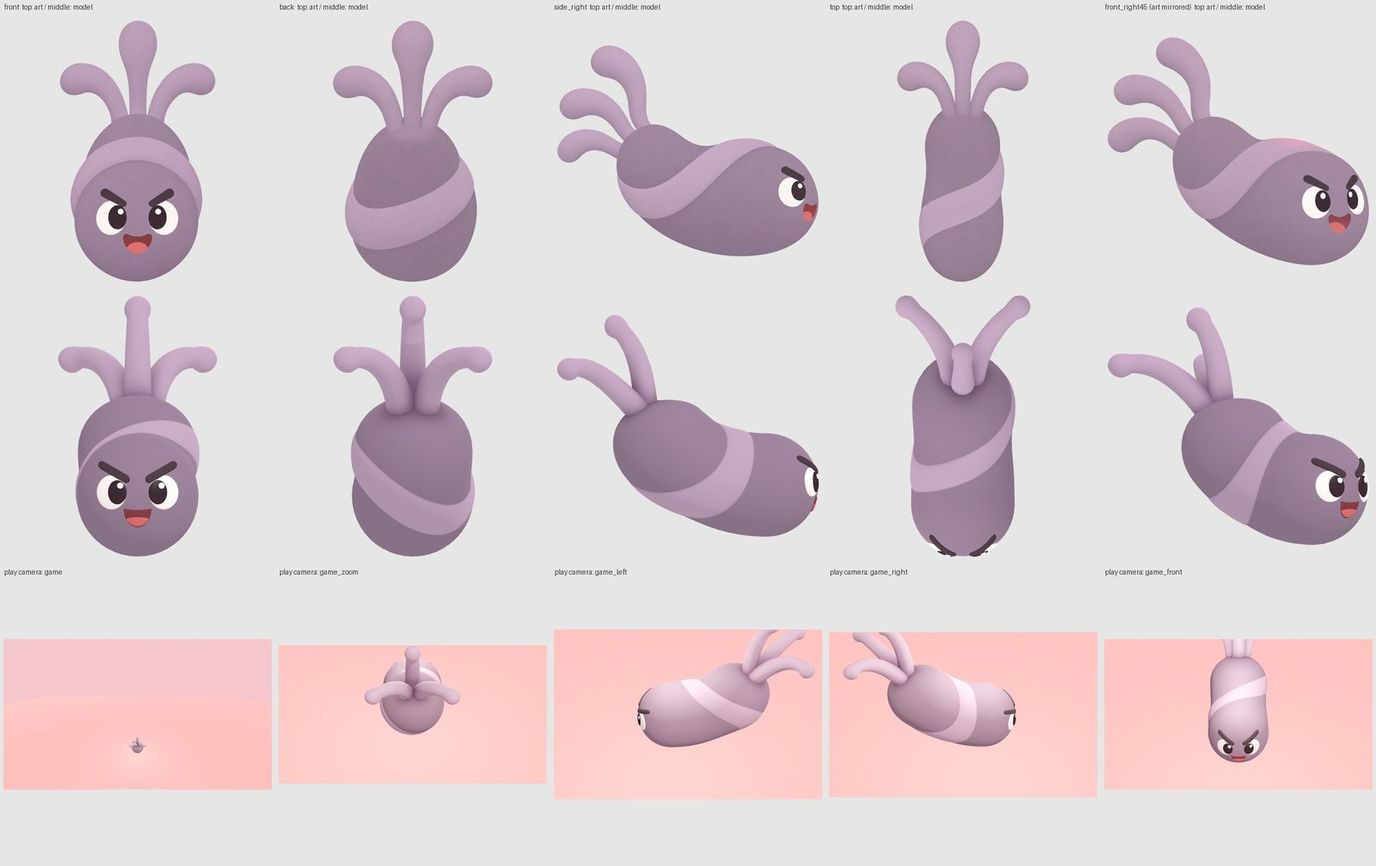
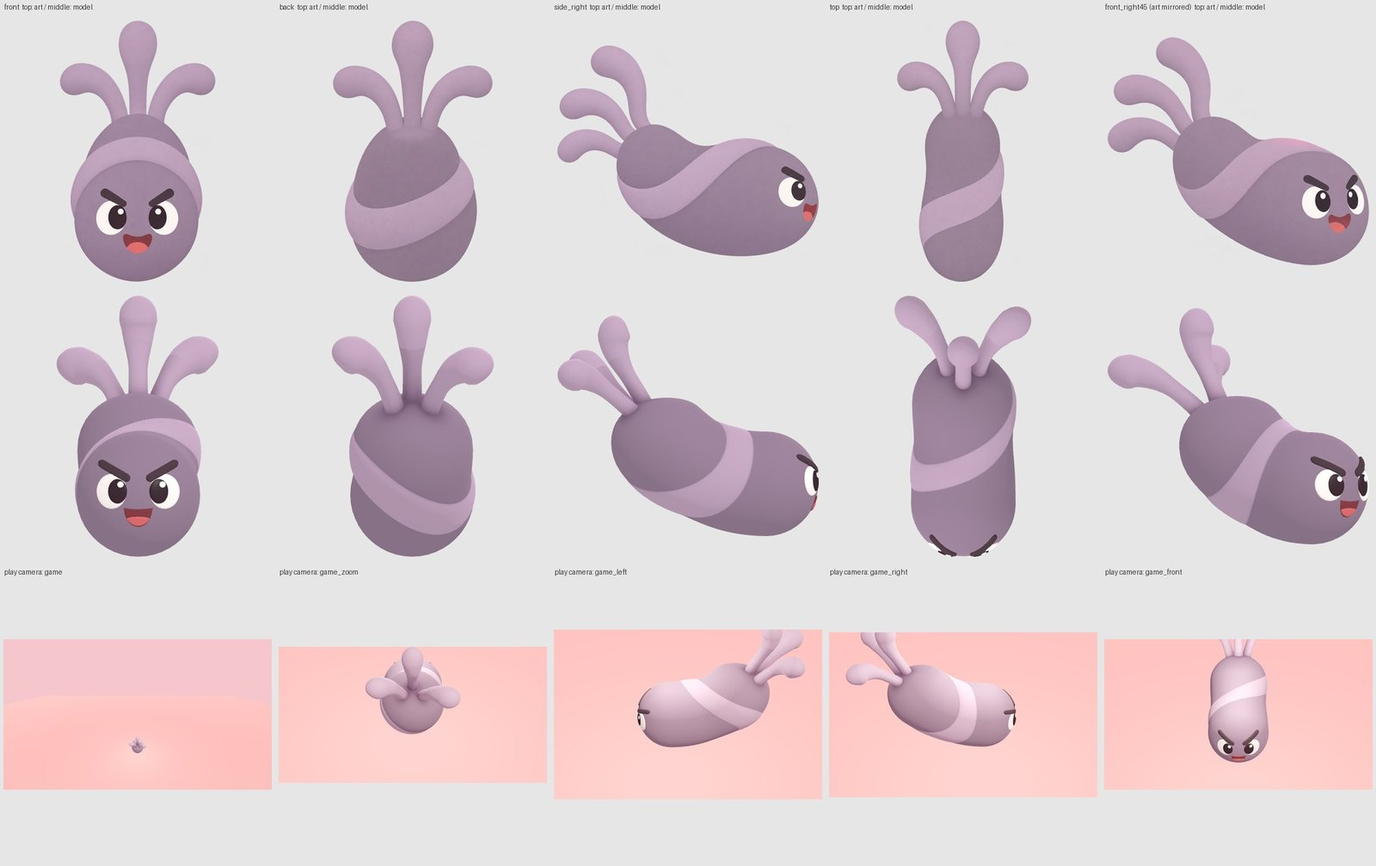
本線に 出す 前の 点検の 直し：カードの 絵が 切れるのを 直す、テストと 記録を 足す
- カードの 中で 絵の 入れものが たてに のびると、絵まで のびて 中身が 大きく なり、よこが わくで 切れた
  （ブラウザ版の ずかんで ピロリきんの しょく手と 顔）。絵は いつも はかった 大きさの まま まん中に 置く
- カードを よこ 880 → 940 に 広げ、絵の わくを 260×300 → 320×400 に（文の 列の 幅は 同じ）
- テスト：本物の カードの 中で 絵の 大きさと はみ出しを はかる、うごかない なかまの 足もとの かげと いき、
  なかまと かべの あいだ（1.6 m いじょう）
- うごかない なかまは 場面が 知って いる 船を 使う（毎フレーム グループを さがさない）
- 見くらべの 絵を いまの モデルと カードで 撮りなおし、ピロリきんの 記録に 4 回目の べん毛の 章
- ダッシュボード・進行の 記録・CLAUDE.md・README を 更新（のこった こと、つぎに 直す ことも）

Claude-Session: https://claude.ai/code/session_014WqpUbns6LUX1FTSmqChzj

diff --git a/blender/pylori.py b/blender/pylori.py
@@ -10,8 +10,8 @@
   頭の 中心より うしろを 円弧に そって 上へ 曲げた もの（断面も いっしょに 回るので、うしろは まるい ドームの まま 上がる）。
   絵は 頭が 下がった すがただが、頭は 水平に 作る（取り込みの 決め）。曲げで うしろの ドームが 頭の 上に 見える。
 ・らせんの 帯：ななめに 1 周 する とじた 輪 1 本（明るい 色、ほぼ 平らで ふちは 丸い）。2 回目で 1 周半の らせんから 変えた（記録 11 章）。
-・べん毛 3 本（まん中 1 本は 上へ 立って 先が うしろへ、左右 2 本は うしろ上へ 出て 先が 外と 下へ そる。
-  根もとが 太く 先へ 細く なる 曲がった しょく手、先は くきに なじんだ やわらかい ふくらみ）。
+・べん毛 3 本（まん中 1 本は 上へ 立って うしろへ そり、先は 前へ まるく もどる。左右 2 本は うしろ上へ 出て 外へ ひろがる。
+  根もとが ほそく、先へ 向かって 太く なって まるく とじる こん棒の 形の しょく手。4 回目で 絵の 形に 合わせた（記録 13 章）。
   別の 部品 Flagella（原点は 根もとの まん中）。
   いまの ゲームは 動かして いない（ゆらす ときは この ノードを 回す）。
 ・顔（白目・黒目・光・まゆ・あいた 口と 舌）は 頭の 面に はった うすい ふくらみ。正面の 絵の 位置で 置く。

diff --git a/docs/dashboard.md b/docs/dashboard.md
@@ -7,7 +7,7 @@
 **ブラウザで 遊べる 版**：https://hassy0511.github.io/inside-body-seek/play/ （いまの main の ゲーム。ページの 先頭の ボタンから 開ける）
 
 ゲームの仕組み・文章・テスト・音は Claude が進め、**絵と 3D モデルのデザインは Codex に発注する**（`docs/art_orders/README.md`）。
-いまの見た目は、作りなおした もの（ミクロごう・むしばきん・口・食道・胃）の ほかは 仮（Blender スクリプトで自動生成）。納品があれば同じ名前のファイルを置きかえるだけで本番に差しかわる（`docs/art_orders/取り込み手順.md`）。
+いまの見た目は、作りなおした もの（ミクロごう・むしばきん・ピロリきん・い（胃）の かべの さいぼう・口・食道・胃）の ほかは 仮（Blender スクリプトで自動生成）。納品があれば同じ名前のファイルを置きかえるだけで本番に差しかわる（`docs/art_orders/取り込み手順.md`）。
 本線のブランチは `main`。Codex の依頼文も `main` を見る。
 
 ---
@@ -20,7 +20,7 @@
 | 仕組み | カルテの 流れ（そうだん → よそう → 体に 入る → 入口から じゅんばんの 場面（とおりみち・みちの ちず）→ 体から 出る → カルテ）、ミッション・カード（ゲームを 止めない。場面の あとに まとめて 見る）・クイズ・ほし・セーブ・つづきから・タッチ操作 | 1〜3 話まで 済（自動テストで カルテ 3 本と 場所 10 こが 通る）。4〜10 話は これから |
 | 場所（ステージ） | 口・食道・胃・小腸・血管・心臓右・肺・心臓左・脳・鼻 | 口・食道・胃を Codex の 絵から 作りなおした（形・光・面の 画像）。食道は「なみに のる」遊びに 変えた。ほかの 7 つは 仮の まま（つぎは 小腸と 血管）。ひふ（皮膚）は 4 話で 足す |
 | 音 | 効果音（numpy 生成）、音楽（楽譜から 作った ループ 10 曲と 短い 曲 4 つ。`tools/music/`、`docs/audio.md`） | 音楽は 作りなおした（持ち主が「おとを きく」で 聞いて 判断する 待ち）。効果音は 仮 |
-| 絵・モデル | Codex に発注 → 納品 → Claude が 3D 化・組み込み | 第2弾は 確認ずみ（顔と 全身の 絵は 組み込み済み）。第3弾の 発注書が できた。3D 化は これから |
+| 絵・モデル | Codex に発注 → 納品 → Claude が 3D 化・組み込み | 第2弾は 確認ずみ（顔と 全身の 絵は 組み込み済み）。第2弾の 3D 化は 12 体の うち 4 体（ミクロごう・むしばきん・ピロリきん・い（胃）の かべの さいぼう）が 済み。第3弾の 発注書が できた。3D 化は これから |
 | 配布 | エクスポート（PC／Web／スマホ） | Web 版は 出した（ブラウザで 遊べる。main に push する たびに 作りなおす）。PC・スマホの アプリは 未 |
 
 ## 2. いま やること
@@ -29,6 +29,7 @@
 |---------|------|------|
 | ブラウザで 1 話を 遊んで、気づいた ことを 伝える（方向転換は ひだり・みぎで 向きが 変わる 形に した。体に 入る・出る 画面を 足した） | ユーザー | いま |
 | ブラウザで 2 話を 遊んで、作りなおした しょくどう（なみに のる。かたまりに ぶつかると なみから おちる）と い（胃）、ものしりカードの 出かた（場面の とちゅうは 左上の 小さい ふだだけ。場面の あとに「みつけた ものしりカード」）を 見る。3 話では しょくどうに かたまりが 無い ことも 見る | ユーザー | いま |
+| ブラウザで 2 話の い（胃）を 遊んで、絵から 作りなおした ピロリきん（ななめの 帯 1 本、先の まるい しょく手 3 本）と かべの さいぼう（ゆかに 立って 船の ほうを むく。おうえんすると 口が ひらく。船は つきぬけない）、ずかんの 2 枚の カード（顔を こちらに むけた まま ゆれる）を 見る | ユーザー | いま |
 | 通り道（くち・しょくどうの とおりみちと みちの ちず）が 学びに なって いるか 見る。4〜10 話の みちは 決まった（2026-11-25：入口は 口だけで なくて よい。7〜9 話は うでの ちゅうしゃから 入り、しんぞうと はいを 本当の 順で 通る。`docs/story.md` 5 章の 下の 表） | ユーザー | いま |
 | Codex に 小腸と 血管の 絵を 頼む（7 章の 先頭の 文を 貼る。順 3。食道と 胃の 仕上がりを 見て から） | ユーザー | いま |
 | 食道と 胃の 絵の 取り込みで 決めて ほしい 点（食道 6・胃 6）に 答える（`docs/art_orders/W3_01_食道_取り込みの結果.md`・`W3_01_胃_取り込みの結果.md` の 7 章。おすすめの ままなら「おすすめで」）。任意の 修正依頼は 各 6 章 | ユーザー | いつでも |
@@ -36,10 +37,11 @@
 | A と B を くらべて、これからの 作りかたの 分担を 決める（ページの 先頭の「A と B を くらべる」。遊ぶ・同じ 画面を ならべて 見る・納品チェックを 見くらべる） | ユーザー | いま |
 | ブラウザで 遊んで、気づいた ことを Claude に 伝える（ページの 先頭の「あそんで たしかめる」） | ユーザー | いま |
 | 第3弾を Codex に出す（5 本。7 章の 文を 貼るだけ）。出す順は 患者さんたち → UI → カードの挿絵 Part A → アイテム → カルテの てきと なかま。別々の ブランチなので 同じ日に 並べて 出してよい。1 本を 2〜4 回に 分けて 描くので、納品の 確認が 済んだら 同じ 文を もう一度 貼る | ユーザー | いま |
-| 第2弾の 確認結果を読み、決めてほしい点（15 個。全部に おすすめ あり）に答える。おすすめの ままで よければ「おすすめで」だけで よい（`docs/art_orders/W1W2_取り込みの結果.md` 5 章） | ユーザー | いま |
+| 第2弾の 確認結果を読み、決めてほしい点（15 個。全部に おすすめ あり）に答える。おすすめの ままで よければ「おすすめで」だけで よい（`docs/art_orders/W1W2_取り込みの結果.md` 5 章。10 ピロリきんの 帯と 13 かべの さいぼうの ねんえきは、作った 形で 決めた） | ユーザー | いま |
 | 第2弾の 修正依頼（3 本。どれも 任意）を Codex に出す。7 章の 下の 3 つ。出さなくても 3D 化は 進む | ユーザー | いつでも |
+| ブラウザ版の い（胃）で 見つかった ことを 直す（かべぎわの カメラ、きゅうけいの あとの 向き、入口の 先の いけ、「のど」の 看板、「きろくを けす」の もどる キー。5 章） | Claude | つぎ |
 | 第3弾の 納品を 1 回ごとに 確かめる（確かめたら ここに 書く） | Claude | 納品待ち |
-| 第2弾の 絵を 3D にして 仮モデルと 差しかえる（12 体。順番は `W1W2_取り込みの結果.md` 7 章） | Claude | これから |
+| 第2弾の 絵を 3D にして 仮モデルと 差しかえる（12 体。済みは pod・mushiba・pylori・wallcell の 4 体、のこり 8 体。順番は `W1W2_取り込みの結果.md` 7 章） | Claude | とちゅう |
 | カルテ 1〜3 話の 見直し（コード・文と 体の 事実・遊びやすさ）と 直し | Claude | これから |
 | 4〜10 話を 入れる（新しい しくみ、ひふの 場所、はいえんの ボス）。新しい カード 10 枚の 文も ここで 書く | Claude | これから |
 
@@ -48,10 +50,10 @@
 | 波 | 発注書 | 出した日 | 納品 | 確認 | 組み込み |
 |----|-------|---------|------|------|---------|
 | W0 | `W0_01_アートバイブル.md` | 済 | 2026-10-21（3 案＋A の派生 2 案） | 済：A-model に決定（2026-10-27） | 基準として使う（`W0_取り込みの結果.md`） |
-| W1 | `W1_01_主人公たち.md` | 済（第2弾） | 2026-11-12（`art/w1-hero` @ `6466ce0`、PNG 39 枚） | 済（2026-11-12）：必須の直しなし。任意の修正 2 件、決めてほしい点あり（`W1W2_取り込みの結果.md`） | 顔と全身の PNG 13 枚は取り込み済み（`5003b74`）。3D 化（pod、pico）は これから |
+| W1 | `W1_01_主人公たち.md` | 済（第2弾） | 2026-11-12（`art/w1-hero` @ `6466ce0`、PNG 39 枚） | 済（2026-11-12）：必須の直しなし。任意の修正 2 件、決めてほしい点あり（`W1W2_取り込みの結果.md`） | 顔と全身の PNG 13 枚は取り込み済み（`5003b74`）。3D 化：pod は 済み（`W1_01_pod_3D化の結果.md`）、pico は これから |
 | W1 | `W1_02_患者さんたち.md`（PNG 44 枚。4 回に分けて依頼） | 第3弾：いま出せる | — | — | — |
-| W2 | `W2_01_てき.md` | 済（第2弾） | 2026-11-12（`art/w2-enemies` @ `5a0a268`、PNG 40 枚） | 済（2026-11-12）：必須の直しなし。任意の修正 2 件、決めてほしい点あり（`W1W2_取り込みの結果.md`） | そのまま使う絵は なし。3D 化（5 体）は これから |
-| W2 | `W2_02_なかま.md` | 済（第2弾） | 2026-11-12（`art/w2-friends` @ `8a91ff9`、PNG 48 枚） | 済（2026-11-12）：必須の直しなし。任意の修正 2 件、決めてほしい点あり（`W1W2_取り込みの結果.md`） | そのまま使う絵は なし。3D 化（6 体）は これから |
+| W2 | `W2_01_てき.md` | 済（第2弾） | 2026-11-12（`art/w2-enemies` @ `5a0a268`、PNG 40 枚） | 済（2026-11-12）：必須の直しなし。任意の修正 2 件、決めてほしい点あり（`W1W2_取り込みの結果.md`） | そのまま使う絵は なし。3D 化：mushiba・pylori は 済み（`W2_01_mushiba_3D化の結果.md`・`W2_01_pylori_3D化の結果.md`）、のこり 3 体は これから |
+| W2 | `W2_02_なかま.md` | 済（第2弾） | 2026-11-12（`art/w2-friends` @ `8a91ff9`、PNG 48 枚） | 済（2026-11-12）：必須の直しなし。任意の修正 2 件、決めてほしい点あり（`W1W2_取り込みの結果.md`） | そのまま使う絵は なし。3D 化：wallcell は 済み（`W2_02_wallcell_3D化の結果.md`）、のこり 5 体は これから |
 | W2 | `W2_03_アイテムと小物.md`（PNG 25 枚。3 回に分けて依頼） | 第3弾：いま出せる | — | — | — |
 | W2 | `W2_04_カルテのてきとなかま.md`（PNG 27 枚。3 回に分けて依頼） | 第3弾：いま出せる | — | — | — |
 | W3 | `W3_01_からだのぶたい.md`（5 回に分けて依頼。順 1 ＝ 口、順 2 ＝ 食道と 胃は 納品ずみ。**順 3 ＝ 小腸と 血管**を 次に 出す） | 順 1・2：済。順 3：いま出せる | 順 1：2026-11-24（`art/w3-stages` @ `2c8a3db`、PNG 8 枚）。順 2：2026-11-25（@ `abf7455`、PNG 14 枚） | 順 1：済（2026-11-24）。順 2：済（2026-11-25）。どちらも 必須の 直しなし。任意の 修正と 決めて ほしい 点（`W3_01_口_取り込みの結果.md`・`W3_01_食道_取り込みの結果.md`・`W3_01_胃_取り込みの結果.md`） | 口・食道・胃：面の 画像 各 2 枚（口は 看板も）を 取り込み、形・色を 雰囲気画に 寄せて 作りなおした |
@@ -61,15 +63,17 @@
 
 ## 4. 3D モデルの状態
 
-3D モデルは すべて仮（`blender/characters.py` / `blender/stages.py` の自動生成）。**GLB の名前と、Godot が探す部品名（`Propeller`、`Window`）は差しかえの約束なので変えない。**
+3D モデルは、絵から 作りなおした もの（下の 表で「本番」）の ほかは 仮（`blender/characters.py` / `blender/stages.py` の自動生成）。**GLB の名前と、Godot が探す部品名（`Propeller`、`Window`）は差しかえの約束なので変えない。**
 
 | 種類 | ID（GLB 名） | 状態 | 発注書 |
 |------|------------|------|-------|
 | 主人公 | pod（＋Window・Propeller。パイロット入り） | 本番（絵から 作りなおした。`W1_01_pod_3D化の結果.md`） | W1-01 |
 | 主人公 | pico | 仮（絵は 届いた。3D 化は これから） | W1-01 |
 | てき | mushiba | 本番（絵から 作りなおした。`W2_01_mushiba_3D化の結果.md`） | W2-01 |
-| てき | pylori、akudama、virus、boss_virus | 仮（絵は 届いた。3D 化は これから） | W2-01 |
-| なかま | rbc、wbc、zendama、wallcell、villus、neuron | 仮（絵は 届いた。3D 化は これから） | W2-02 |
+| てき | pylori | 本番（絵から 作りなおした。`W2_01_pylori_3D化の結果.md`） | W2-01 |
+| てき | akudama、virus、boss_virus | 仮（絵は 届いた。3D 化は これから） | W2-01 |
+| なかま | wallcell（＋MouthHappy。おうえんの あとに 見せる ひらいた 口） | 本番（絵から 作りなおした。`W2_02_wallcell_3D化の結果.md`） | W2-02 |
+| なかま | rbc、wbc、zendama、villus、neuron | 仮（絵は 届いた。3D 化は これから） | W2-02 |
 | アイテム | nutrient_a/b/c、heart_item、food、cholesterol、dust | 仮 | W2-03 |
 | しかけ | ゴール・チェックポイント・べん・おくすりバブル（コードで生成）。しょくどうの なみは モデルの きんにくの わを 動かす。いえきの いけは 納品の 色（光らない 琥珀色）で、ふちは モデルに ある | ゴール・チェックポイント・べん・バブルは 仮 | W2-03 |
 | カルテ 4〜10 話の アイテム | waste、pollen、platelet、wound、clue、medicine、exit | まだ 無い（その 話を 作る ときに 仮モデルを 作る） | W2-03 |
@@ -95,16 +99,30 @@
 ## 5. 残課題
 
 - ステージの表面の画像は、口で しくみを 作った（`godot/assets/textures/stages/` に 同じ 名前で 置くだけ）。食道と 胃も 同じ 作りかたで 作りなおした。ほかの 7 ステージは、Codex の 絵が 届いた 順に 作りなおす。
-- 表情の切りかえ（うれしい・いたい）はまだ使っていない（モデルで目・口を別部品にしておく）。
+- 表情の切りかえ（うれしい・いたい）は、かべの さいぼうの うれしい 口（`MouthHappy`。おうえんすると ひらく）だけ。ほかは まだ使っていない（モデルで目・口を別部品にしておく）。
 - エクスポート：Web 版は 済み（`tools/export_web.sh`）。のこりは PC・Android、Web 版の 仕上げ（スマホの 大きさと タッチでの 確認、話ごとに 直接 開く リンク）。
 - ダッシュボードに、遊ばなくても 見られる 画面の 一覧（スクリーンショット）を 足す。
-- 仮の まま 目に つく もの：開く 前の ゴール（灰色の 輪）、チェックポイントの 旗（灰色）、かべの さいぼう（W2 の 色に した 仮の 形）。いえきの いけは、↑ を 押した まま よこぎると ハートが 2 つ へる（前からの きまり）。しょくどうの「なみに のった きょり」は 場面の 中と クリアの ひとことだけに 出る。「みつけた ものしりカード」の「ぜんどううんどう」だけ 字が 小さい。い（胃）の かべぎわでは カメラが 船に 近づきすぎて 前が 見えにくい（ゴールは かべから はなした。カメラの 直しは どの へやにも ひびくので、見て から 決める）。
+- 仮の まま 目に つく もの：開く 前の ゴール（いまは 光らない うすい 白の 輪。い（胃）の 新しい 光で くすんだ 灰色の かたまりに 見えたので 明るく した。形は 仮の まま）、チェックポイントの 旗（灰色）。いえきの いけは、↑ を 押した まま よこぎると ハートが 2 つ へる（前からの きまり）。しょくどうの「なみに のった きょり」は 場面の 中と クリアの ひとことだけに 出る。「みつけた ものしりカード」の「ぜんどううんどう」だけ 字が 小さい。い（胃）の かべぎわでは カメラが 船に 近づきすぎて 前が 見えにくい（ゴールは かべから はなした。カメラの 直しは どの へやにも ひびくので、見て から 決める）。
+- ブラウザ版で い（胃）を 遊んで 見つかった こと（2026-11-25 の 点検。つぎに 直す）：
+  - かべや 坂の そばで カメラが 船の まどの 中まで 寄り、パイロットの 頭が 画面の 下半分を ふさぐ。行き先の 矢印も 大きく なって 上で 切れる。
+  - 「ちょっと きゅうけい」の あと、船が 赤い かべの ほうを 向いて 出る（まわりが 見えない）。かべに 向かって ↑ を 押しつづけると、もどしが 出る まで 7 秒ほど 画面が 赤 一色。
+  - い（胃）の 入口から まっすぐ 進むと すぐ いえきの いけに 入る。2 ひきの ピロリきんの そばでは ハートが すぐ なくなる（ゲームオーバーは なく、きゅうけいで もどる）。
+  - 2 話で 口を とおる とき、「のど」の 看板を カメラが つきぬけて、板が 画面の 上を かくす。
+  - タイトルの「きろくを けす」の たしかめは、もどる キー（Esc）で とじない。
+  - ピロリきんの カードの 文は「らせんの からだ」だが、絵に 合わせた モデルは 豆の 形に 帯 1 本（本物は らせんの 形）。
+- い（胃）の キャラクター（ピロリきん・かべの さいぼう）で のこった こと：
+  - ピロリきんの 帯は、真横から 見ると ほぼ たてに 体を まく（絵は ななめ）。真横と 真上の 絵が 食いちがい、ゲームの カメラが 見る 真上を とった（`W2_01_pylori_3D化の結果.md` 11.1）。
+  - 船が 3 m より 近いと、小さい かべの さいぼうが 船に かくれて 見えない（おうえんした しゅんかんの うれしい 口は、はなれるか ふりかえると 見える）。
+  - い（胃）の 中では ミクロごうの 船体が、前の まっ白で なく 明るい あたたかい 白、ひれは こい からし色に 見える（自分の 色に 近い）。ミクロごうの ライトの 近く（2.5 m）では 光の 当たる がわが 色の 1.1 倍を 少し こえる。
+  - ほかの 場所（口・しょくどう など）の キャラクターの 光は 測って いない。たいようが 強い ままで、自分の 色の 1.3〜1.45 倍に 明るく 見えて いる らしい。
+- カードの 3D の 絵は 顔の まわりで ゆれる ように した。そのため ひらたい モデル（星の `nutrient_a`、`heart_item`）は ゆれの とちゅうで 一瞬 よこから 見え、はばの 広い モデル（akudama・boss_virus など）は 前より 少し 小さく 見える。
 - くらべもの（`tools/compare/`、`test.yml` の「comparison builds」の 手順、ページの「A と B を くらべる」）は 一時的。分担が 決まったら 消す。
 - 効果音の 本番化（音楽は 楽譜から 作りなおした。持ち主が 聞いて 直したい 曲が あれば `tools/music/tracks/<名前>.py` を 直す）。
 - 口の GLB を つぎに 作りなおす とき：むしばの あな（1 話の げんいん）を は（歯）の メッシュから 分けて べつの 部品（`Cavity_*`）に する。いまは 2・3 話の くちの とおりみちで、`StageDB` の `"pass_clean"` が 実行時に あなの 色を ぬりつぶして いる（ほかの 人の くちに むしばが あるように 見せない）。分けたら `pass_clean` を 消して、とおりみちでは `Cavity_*` を かくす。
 
 ## 6. 記録
 
+- 2026-11-25：い（胃）の キャラクター 2 体を Codex の 絵から 作りなおした。ピロリきんは 豆の 形の 体に ななめの 帯 1 本と、根もとが ほそく 先が まるく 太い しょく手 3 本（絵の こん棒の 形）。かべの さいぼうは 絵の 色（あんず色の 体と うすい 水色の ねんえき）で、ゆかに 立ち、いつも 船の ほうを むき、足もとに かげ。おうえんすると 口が ひらいて はずむ。船は つきぬけず、よこへ すべって 通る。同じ さいぼうを まわる ピロリきんは はなれて まわる。い（胃）の 光を キャラクターが 自分の 色で 見える ように 直した（面の 見た目は 前と 同じ）。ものしりカードの 3D の 絵は 回らず、顔を こちらに むけた まま ゆれ、前から 光を 当てる。ずかんで カードを 開いた まま もどると カードが のこるのを 直した。開く 前の ゴールの 輪は 明るい 白に。
 - 2026-11-25：しょくどう（食道）と い（胃）を Codex の 絵から 作りなおした。しょくどうは、ゆかの 食べかすを なくし（食べて いない 人の しょくどうは からっぽ）、うしろから くる きんにくの なみに のって くだる 遊びに した。2 話だけ、かまずに のみこんだ かたまりが いっしょに くだり、ぶつかると なみから おちて おそく なる（ハートは へらない）。きかん（気管）には ふたが しまり、入れない。い（胃）は いえきの いけを 光らない 琥珀色に し、見える 水の ふちと あぶない ところを そろえた。ものしりカードは ゲームを 止めなく した（とちゅうは 左上の 小さい ふだだけ。ふつうの 場面の あとに「みつけた ものしりカード」で まとめて 見る。ずかんに「まだ 見て いない」しるし）。ミクロごうの 上の 矢印は 水色に（光る 黄色は ゴールだけ）。
 - 2026-11-25：まとめた あとの 見なおし（ブラウザ版を 実際に 遊ぶ・コード・文と 体の 事実）で 見つかった ものを 直した。ブラウザ版だけ 文の 折りかえしが テストと ちがって いた（書き出した 版に 行の 折りかたの データを 入れた。「しょくどう（食道）」が 漢字の 中で 折れて いた）。しょくどうの「なみに のった きょり」は 本物の 長さ（センチ）で 出す。2 話の しょくどうの あとに「たべものは しょくどうに のこらないよ。のみこんで から 10びょう くらいで い（胃）に つくんだ。」、いえきの カードに「ほんとうの いえきは すきとおって いる」を 足した。ちの くだと はなで、はじめに ↓ を 押しつづけると 船が おちて いたのを 直した。い（胃）の ゴールを かべから はなした。 直した 版を もう 一度 別の 目で 確かめ、ブラウザ版と テストで 文の 行が 同じかを くらべる 道具（`tools/web_text_check.sh`。161 画面・1399 文が 同じ）を 作った。行き先の 矢印を、どの 向きでも 矢印と わかる ひらたい 矢じるしに 変えた（前は まうしろから 見ると 青い 玉に 見えた）。しょくどうの のる 前の 左上は「なみに のろう！」、カードは「やく 25 センチ」。
 - 2026-11-25：音楽の 見直し 2 回目（曲の 出だしが 似すぎて いた 4 曲と ドラムの くり返しを 直し、曲の 切りかえの 不具合 3 つを 直した）。「おとを きく」は MP3 でも 聞ける（iPhone 用）。
@@ -241,7 +259,7 @@
 - 直したファイルの一覧を報告する。
 ```
 
-### 第2弾の 修正：W2-01 てき（art/w2-enemies）：ボスの分解図と spec の追記（任意。3D 化は止まらない）
+### 第2弾の 修正：W2-01 てき（art/w2-enemies）：ボスの分解図と spec の追記（任意。3D 化は止まらない。ピロリきんは もう 作った ので、その 色の 追記は 記録だけ）
 
 ```text
 あなたはゲーム開発プロジェクト『からだのなか だいぼうけん』の作画担当です。納品済みの絵に修正依頼があります。
@@ -270,7 +288,7 @@
 - 直したファイルの一覧を報告する。
 ```
 
-### 第2弾の 修正：W2-02 なかま（art/w2-friends）：villus の真上と spec の追記（任意。3D 化は止まらない）
+### 第2弾の 修正：W2-02 なかま（art/w2-friends）：villus の真上と spec の追記（任意。3D 化は止まらない。かべの さいぼうは もう 作った ので、その 色の 追記は 記録だけ）
 
 ```text
 あなたはゲーム開発プロジェクト『からだのなか だいぼうけん』の作画担当です。納品済みの絵に修正依頼があります。

diff --git a/docs/art_orders/W2_01_pylori_3D化の結果.md b/docs/art_orders/W2_01_pylori_3D化の結果.md
@@ -6,8 +6,8 @@
 | 作った日 | 2026-11-25 |
 | もとの絵 | `art/w2-enemies` の `art/concepts/W2_enemies/pylori_*`（点検は `W1W2_取り込みの結果.md` 3.2） |
 | 作りかた | `blender/pylori.py`（形は ぜんぶ 式。作りの 道具は `blender/pod.py` と 共通、顔の ふくらみは `blender/mushiba.py` と 同じ やりかた。`python -m blender.characters pylori` で 作りなおせる。同じ GLB に なる ことを 確かめた） |
-| 出力 | `godot/assets/models/characters/pylori.glb`（408,680 バイト、16,052 三角形、マテリアル 10、テクスチャなし）。`.import` で LOD を 切った（2 回目の 数。11 章） |
-| 見なおし | 1 回 見なおした（10 章。うしろから 見た 形・太さ・べん毛の 広がり）。2 回目で 帯・べん毛・色を 作りなおした（11 章） |
+| 出力 | `godot/assets/models/characters/pylori.glb`（419,056 バイト、16,484 三角形、マテリアル 10、テクスチャなし。4 回目の 数。13 章）。`.import` で LOD を 切った |
+| 見なおし | 1 回 見なおした（10 章。うしろから 見た 形・太さ・べん毛の 広がり）。2 回目で 帯・べん毛・色を 作りなおした（11 章）。3 回目と 4 回目で べん毛だけ 作りなおした（12・13 章。いまの べん毛は 4 回目） |
 | 変えなかった 約束 | GLB の 名前、`BUILDERS["pylori"]`、前 ＝ +Y、`enemy.gd` の CONFIG（radius 0.7、touch_r 0.9）。ゲームの コードは 変えて いない |
 | 絵との 見くらべ | `docs/screenshots/W2_pylori_compare.jpg`（上の 段 ＝ 絵、中の 段 ＝ モデル、下の 段 ＝ ゲームの カメラ） |
 | ゲームの 中 | `docs/screenshots/W2_pylori_ingame.jpg`（い（胃）で、ゲームの カメラから 近・中・遠、船と ならべて、動いて いる ところ） |
@@ -22,7 +22,7 @@
 |------|----|----------|------|-----------|------|
 | 体（色は 2 回目に `#957D94`） | 太い 豆形：頭の 球（前）と うしろの 球を なめらかに つつんだ 形（round cone）。頭の 中心より うしろを 半径 1.2 の 円弧に そって 上へ 曲げる（断面も 回る）。帯の あたりを 少し くびれさせる | 全長 1.63（-0.80〜+0.83）、高さ 1.09（-0.41〜+0.68）、幅 0.82。頭の 半径 0.41。うしろの 球の 半径 0.405（まるい まま）。うしろの 球の 中心が 0.30 上がる。くびれ 1.8 cm | 頭の 中心 (0, +0.42, 0)、うしろの 球の 中心（曲げた あと）(0, -0.38, +0.30) | `#8D7993` | つやなし（0.9） |
 | らせんの 帯 | ななめに 1 周 する とじた 輪（はしが 無い）。体の 面に そい、まん中は ほぼ 平ら、ふちは 丸く 体へ おりる | 幅 0.285、盛り上がり 0.015 | 帯の まん中の 線：曲げる 前の 前後 h(φ) ＝ -0.15 ＋ 0.15 sin φ ＋ 0.27 cos φ（φ ＝ まわりの 角度。0 ＝ 本人の 右、90 ＝ 上）。本人の 右の よこが いちばん 前（+0.12）、左の よこが いちばん うしろ（-0.42） | `#C0A3BD` | つやなし（1.0） |
-| `Flagella`（べん毛 ×3） | 3 次ベジェの くだ。根もと 太さ 0.156 → 先の ほうで 0.78 倍 → 先は 半径 0.1275 の まるい 玉（くきと なめらかに つなぐ） | 長さ まん中 0.91、左右 0.78（根もとの 体に うまる 0.1 を ふくむ。spec の 0.45 × 1.5 ＝ 0.68 より まん中が 長い） | 上 1 本＋左右 2 本。うしろの 球の 上・後ろから 出て、まず うしろへ、それから 上へ まがる（J の 形）。まん中は 高く 上へ、左右は 低く 外へ。いちばん 後ろ -1.19、いちばん 上 +1.27、左右 ±0.61 | `#C0A3BD` | つやなし（1.0） |
+| `Flagella`（べん毛 ×3。4 回目） | 3 次ベジェの くだ。こん棒の 形：根もとが ほそく（半径 0.063）、長さの 45% から 先へ だんだん 太く なり、先の まるい ふくらみ（半径 0.126）に そのまま つながる（くびれ なし） | 長さ まん中 0.84、右 0.89、左 0.87（根もとの 体に うまる 分を ふくむ） | 上 1 本＋左右 2 本。まん中は 上へ 立って うしろへ そり、先は 前へ まるく もどる。左右は うしろへ ながれて 外へ ひろがり、先は 外へ まがる。左右の 先の 高さを 少し ずらした（右 +0.81、左 +0.90）。いちばん 後ろ -1.22、いちばん 上 +1.33、左右 ±0.54 | `#C0A3BD` | つやなし（1.0） |
 | 白目 ×2 | 頭の 面に はった うすい ふくらみ（だ円） | 半径 横 0.100・たて 0.117、高さ 1.0 cm | 正面の 絵の (±0.427, +0.055)×頭の 半径 | `#FCF4F1` | つやなし |
 | 黒目 ×2 | 同じ。白目の 上 | 半径 0.061×0.080 | 白目の 中心から 内がわ（はなの ほう）へ 0.10×頭の 半径 | `#3C2A32` | 半つや（0.45） |
 | 光の 点 ×2 | 同じ。黒目の 上 | 半径 0.021 | 黒目の 中心から 絵の 右上へ (0.052, 0.105)×頭の 半径 | `#FCF4F1` | 半つや（0.5） |
@@ -31,8 +31,8 @@
 | 舌 | 口の 下半分（上へ ふくらむ 弧） | 幅 0.15 | 口の 上 | `#DF6D6E` | 0.7 |
 
 - 形が まじわる 所（べん毛の 根もと、帯の ふち、体の 下）の うすい 影は 頂点カラー（`COLOR_0`）に 焼いて ある。顔には 焼かない。
-- 三角形（2 回目）：体 4,128、帯 5,376、顔 2,660、べん毛 3,888。合計 16,052（上限 20,000 の 内）。GLB は 408,680 バイト（上限 600 KB の 内）。1 回目は 13,676・350,396 バイト。
-- `Flagella` は 別の ノード（`pylori` の 子）。原点は 3 本の 根もとの まん中（Blender (0, -0.58, +0.58)）。いまの ゲームは 動かして いない（spec の「べん毛を 軽く 揺らす」を する ときは この ノードを 小さく 回す）。ゲームは この 名前に たよって いない。
+- 三角形（4 回目）：体 4,128、帯 5,376、顔 2,660、べん毛 4,320。合計 16,484（上限 20,000 の 内）。GLB は 419,056 バイト（上限 600 KB の 内）。2・3 回目は 16,052・408,680〜408,688 バイト、1 回目は 13,676・350,396 バイト。
+- `Flagella` は 別の ノード（`pylori` の 子）。原点は 3 本の 根もとの まん中（Blender (0, -0.60, +0.58)。4 回目）。いまの ゲームは 動かして いない（spec の「べん毛を 軽く 揺らす」を する ときは この ノードを 小さく 回す）。ゲームは この 名前に たよって いない。
 - Godot の glTF 読みこみは メッシュの 1 つ目の マテリアルに 頂点カラーを 使わない（`W1_01_pod_3D化の結果.md` 7 章）。本体の 1 つ目は 光の 点（`PyloriSpark`）、`Flagella` の 1 つ目は べん毛の 先の ふくらみ（`PyloriFlagellumTip`。色は べん毛と 同じ）に して よけた。
 
 ## 1. 使った絵
@@ -80,6 +80,7 @@
 - 撮りかた：い（胃）を 12 秒 動かして ピロリきんが かべの さいぼうの まわりを まわりはじめて から、船を その うしろ（3・8・18 m）と すぐ 横（2.6 m）に 置いて ゲームの カメラで 撮った。動いて いる ところは 船を 止めて 0.5 秒 あけて 3 枚（1 枚目と 2 枚目を のせた）。いけ（いえき）で けがを しない ように して 撮った（撮影だけの 一時的な スクリプト。コミット して いない）。
 - **うしろ・上から（ゲームの カメラ。見なおし 後に 撮りなおした）**：見えるのは 上がった うしろの まるい ドームと、その 上に 立つ 3 本の べん毛（先が 丸い）。帯は 真うしろからは ドームの 下に ほとんど かくれ、ななめうしろからだと 体を 巻く 明るい しまが 見える。かお は 見えない が、べん毛の かたちで「ほかの もの」と すぐ 分かる。中くらい（8 m）でも べん毛と 帯は 読める。遠く（18 m）では べん毛の ついた 小さい 紫の かたまり。
 - **てき と なかま**：かべの さいぼう（いまは 仮の 黄色い 玉＋水色の ぼうし）と 色も 形も ちがう。光る 黄色（ゴール）と いけの 琥珀色は 使って いない。こちらを 向くと つり上がった まゆと 口が 見える（`game_front`）。
+  （あとから：かべの さいぼうも 絵から 作りなおした。`W2_02_wallcell_3D化の結果.md`）
 - **大きさ**：船の すぐ 横で、体は 船と ほぼ 同じ 太さ、べん毛こみで 船の 1.5 倍 くらいの 長さ。
 - **床**：ゆかから 体の 下まで 約 0.7 m（`enemy.gd` の うく 高さ 1.11 m − 体の 下 0.41 m、±0.12 m ゆれる）。ゆかに もぐる ところ・不自然に 高く うく ところは 見えなかった。
 - 気に なる 点：い（胃）の 光では 体が 絵より うすく ピンクに 見える（4 章 5）。うしろから だけ だと「やっつける もの」の 合図（まゆ）は 見えない（むしばきんも 同じ）。
@@ -189,6 +190,8 @@ LOG=/tmp/t.log tools/run_tests.sh --stage=stomach                   # --episode=
 
 ## 12. 3 回目（べん毛を 曲がった しょく手に。見なおしの 指摘）
 
+（この 形は 4 回目で 作りなおした。根もとが 太く 先が 細い 向きが 絵と 逆で、つのに 見えた。13 章）
+
 見なおしで「べん毛が まっすぐな 棒に 別の 玉が ついた 形で、触角か ぼうつきキャンディに 見える。絵は 太く やわらかく 曲がった しょく手（正面・背面では 外へ そり、真横では うしろ上へ ながれる。先は ゆるく ふくらむ だけ）」と 言われた（いちばん 目立つ のこりの ちがい）。`blender/pylori.py` の べん毛だけを 直した。
 
 - 道：3 次ベジェの 点を 曲がる 形に した（`FLAGELLA`）。まん中は 上へ 立って 先が うしろへ まがる。左右は うしろ上へ 出て 外へ ひろがり、先は 外がわと 少し 下へ そる（正面・背面の 絵の 外へ そる 2 本、真横の 絵の うしろへ ながれる 2 本）。左右の 根もとを まん中へ 寄せた（根もとの 向きの x 0.40 → 0.22。絵は 3 本が 頭の うしろの 上の まん中から 出る）。
@@ -204,3 +207,22 @@ LOG=/tmp/t.log tools/run_tests.sh --stage=stomach                   # --episode=
 - 大きさ：体は 変えて いない（前後 -0.80〜+0.84 m、さわる 範囲 0.9 の 内）。べん毛こみの 外の 箱は 前後 -1.25〜+0.84、上下 -0.41〜+1.36、左右 ±0.54（前の 回は -1.19・+1.27・±0.61）。カードの わくの テスト（全部の モデル × 3 つの 大きさ × ゆれの 角度）は 通った。
 - 三角形 16,052（べん毛 3,888。数は 前と 同じ）、GLB 408,688 バイト。2 回 作って 同じ md5（`e623845feee11a426e5f7587cf512d99`）。`Flagella` の ノード・原点・マテリアルの ならびは 変えて いない。
 - テスト：`tools/run_tests.sh`（全部）が 通った（`PROBE RESULT: OK`、`RESULT: OK`、`DASHBOARD: OK`、`SCRIPT ERROR` なし）。
+
+## 13. 4 回目（べん毛を こん棒の 形に。リードの 見なおし）
+
+3 回目の べん毛は 根もとが 太く 先へ 細く なる 形で、ゲームの カメラからは 頭に 生えた つのに 見えた。絵を 見なおすと、しょく手は 逆で「根もとが ほそく、先へ 向かって 太く なって、まるく とじる」こん棒の 形。リードが `blender/pylori.py` の べん毛だけを 作りなおした（体・帯・顔・色は 変えて いない）。
+
+- 絵の 読み（正面の 絵。体の 幅に 対する 比）：根もとの 太さ 約 0.16、先の ふくらみ 約 0.30。3 回目は この 2 つが 逆（根もと 太く、先は くきに なじむ 小さい ふくらみ）だった。
+- いまの 数（`pylori.py`）：`FLAG_R` ＝ 0.042 × S（根もとの 半径 0.063 m、直径 0.126 m ＝ 体の 幅 0.82 の 0.15）、`FLAG_BULB` ＝ 0.084 × S（先の ふくらみの 半径 0.126 m、直径 0.252 m ＝ 体の 幅の 0.31）、`FLAG_GROW` ＝ 0.45（長さの 45% から 先へ 太く なる）、`FLAG_NECK` ＝ 0.94（ふくらみの 手前で くきが ふくらみの 0.94 倍まで 太く なり、くびれを 作らない）。根もとは 体へ なじむ ように 少し ひろがる（体の 中）。太さの 式は `flag_radius()`。
+- 道（`FLAGELLA`）：3 本とも うしろへ ながれる 向きに した。まん中は 上へ 立って うしろへ そり、先が 前へ まるく もどる（正面の 絵では まっすぐ 上、真横の 絵では「？」の 形）。左右は うしろへ ながれて 外へ ひろがり、先は 外へ まがる。左右の 先の 高さを 少し ずらした（右 +0.81 m、左 +0.90 m。真横から 3 本とも 見える ように。絵も ずらして 描いて いる）。
+- 大きさ：べん毛 1 本の 長さ まん中 0.84 m、右 0.89 m、左 0.87 m。べん毛こみの 外の 箱は 前後 -1.22〜+0.84、上下 -0.41〜+1.33、左右 ±0.54（3 回目は -1.25・+1.36・±0.54）。体は 変えて いない（前後 -0.80〜+0.84、さわる 範囲 0.9 の 内）。`Flagella` の 原点（3 本の 根もとの まん中）は (0, -0.60, +0.58)。
+- 三角形 16,484（体 4,128、帯 5,376、顔 2,660、べん毛 4,320）、マテリアル 10、GLB 419,056 バイト（409 KB）。`python -m blender.characters pylori` を 2 回 走らせて、2 回とも コミットした GLB と 同じ md5（`43a9f970d0c14cef5cb1000ab50e86cd`）。
+- 絵と 方向ごとに（`docs/screenshots/W2_pylori_compare.jpg`）：
+  - 正面・背面：まん中が 立ち、左右が 外へ ひらく。3 本とも 先が まるく 太い こん棒。**合う**。
+  - 真横：3 本が うしろ上へ ながれ、先の まるい ふくらみが 3 つ 見える（左右の 2 本は 高さを ずらしたが、まだ 半分 ほど 重なる）。
+  - 真上：3 本が うしろへ 出て 左右が 外へ ひらく。**近い**。
+  - 45°：**近い**。
+- ゲームの カメラ（`docs/screenshots/W2_pylori_ingame.jpg`）：近く（3 m）と 船の 横で、先の まるい やわらかい しょく手に 見える（つのには 見えない）。8 m でも 3 本の 先の ふくらみが 分かる。18 m では べん毛の ついた 小さい 紫の かたまり。
+- たたいた とき・消えた あと（い（胃）の 中、船の 3 m 前に ピロリきんを 止めて、時間を 1/20 に して 撮った。撮影だけの 一時的な スクリプト）：たたくと べん毛ごと ふくらみ（0.05 秒あとの こまで 1.19 倍）、べん毛が 体から はなれたり ちぎれたり しない。そのあと 黄色い きらきらの 中で 小さく なって（0.12 秒で 0.79 倍、0.2 秒で 0.31 倍）、0.3 秒の こまでは もう 無い。
+- ものしりカード（`card:stomach:pylori`）と「みつけた ものしりカード」（`cards:stomach`）：顔の まわりで ゆれる 絵で、こん棒の べん毛 3 本と 帯と 顔が 見え、わくでは 切れて いない。
+- 撮りなおした もの：`docs/screenshots/W2_pylori_compare.jpg`（5 方向 ＋ ゲームの カメラ。下の 段は `pod_views` の ふつうの 光）、`docs/screenshots/W2_pylori_ingame.jpg`（い（胃）の 光で 近 3 m・中 8 m・遠 18 m・船の 横 2.6 m・動いて いる ところ 2 枚）。い（胃）の かべの さいぼうの まとめ `docs/screenshots/W2_wallcell_game.jpg` の カードと タイルの こま、`docs/screenshots/W2_wallcell_colour.jpg` の カードの こまも いまの 画面（ゆれる カード）で 撮りなおした。

diff --git a/docs/progress.md b/docs/progress.md
@@ -2,6 +2,22 @@
 
 新しいものが上。要約はダッシュボード（`docs/dashboard.md`）。
 
+- 2026-11-25 **ピロリきんと い（胃）の かべの さいぼうを 絵から 作りなおす**：第2弾の 絵（`art/w2-enemies`・`art/w2-friends`）から、い（胃）の キャラクター 2 体を 作り、ゲームの 動きも 合わせた。作って 別の 目で 見なおし、直す ことを くりかえした（ピロリきんの べん毛は 4 回 作りなおした）。記録は `docs/art_orders/W2_01_pylori_3D化の結果.md`・`W2_02_wallcell_3D化の結果.md`。
+  - **ピロリきん**（`blender/pylori.py`）：豆の 形の 体を うしろで 上へ 曲げ（切り口も 曲げに そって まわす `bend_map`）、帯は ななめに かたむいた とじた 輪 1 本（はじめは おすすめの 1 周半の らせん。絵の 真上・背面・45° に 合わせて 輪 1 本に した。真横の 絵とは 食いちがうので、ゲームの カメラが 見る 真上を とった）。べん毛は ノード `Flagella` の しょく手 3 本。まっすぐな 棒に 玉（「触角」「ぼうつきキャンディ」に 見えた）→ 先が すこし ふくらむ 曲がった しょく手 → 根もとが ほそく 先が まるく 太い こん棒の 形（絵の とおり。根もとの 半径 0.042 × 1.5 m、先の 玉の 半径 0.084 × 1.5 m、うしろへ ながれ、左右の 2 本は 高さを 少し ずらした）。色は 絵から 測った 体 `#957D94`、帯と べん毛 `#C0A3BD`。16,484 三角形、GLB 約 409 KB（419,056 バイト）。
+  - **かべの さいぼう**（`blender/wallcell.py`）：角の 丸い 体に、ふちに 大きな 波 3 つの ある ぼうしの ような ねんえき。色は 絵の 色（体 `#F3A161`、ねんえき `#ADE0E0`）。おうえんの あとに 見せる ひらいた 口を 別の ノード `MouthHappy` に した。底は ゆかに すわって 見える ように 下向きの 面を 少し 暗く。16,572 三角形、約 402 KB。
+  - **い（胃）の 光**（`stage_db.gd`）：キャラクターが 自分の 色の 1.3〜1.45 倍に 明るく とんで いた。たいようを 0.75 から 0.035 に 弱め、まわりの 光を ほぼ 白（0.54）に した。面の シェーダーは たいよう・"fill"・ミクロごうの ライトに `light_gain` を かけるので、3 つの 積（0.45・0.24・0.24）を たもって 面の 見た目は 前と 同じ（4 つの 位置 17 か所で ちがいは 1.5% まで）。色の わかった 球を ゲームの カメラで 測ると、光の 当たる がわ 0.95〜1.1 倍、かげ 0.75〜0.85 倍。
+  - **ゲームの 動き**：うごかない なかま（いまは かべの さいぼう）は 子ノード `Stand` で ゆかに 立ち（上下に ゆれない）、いきを して、いつも 船の ほうを むき、足もとに かげ。`MouthHappy` は はじめて おうえんされる まで かくし、おうえんの あとは ときどき はずむ。中に 船だけが 当たる 円柱（`FriendSolid`、レイヤー 128）。正面から ぶつかると 船は よこへ すべり（`_slip_around_friends`）、これに ふれて いる だけでは はさまった ことに しない。同じ さいぼうを まわる ピロリきんは 自分の 角度から まわりだし、近すぎると あいだの ひろい ところへ うつる。
+  - **カードの 3D の 絵**（`card.gd`）：回るのを やめ、顔の まわりで ±50° ゆれる（8 秒で 1 往復。タイルは 止まった 35°）。大きさは `picture_fit()`（どの 角度でも わくの 94% に 入る）。光が モデルの うしろから 当たって いて 正面が 暗かった ので、前から 当てる 共通の `add_picture_light()` に した（灰色 0.5 の 球で 光の がわ 1.04 倍、かげ 0.88 倍）。ずかんで カードを 開いた まま もどると カードが タイトルの 上に のこって いたのを 直した。
+  - **開く 前の ゴールの 輪**（`goal.gd`）：新しい 光で くすんだ 灰色の かたまりに 見えたので、光らない うすい 白に した。
+  - **道具**：`tools/card_sheet.sh`（キャラクターの GLB ぜんぶの カードの 絵を 角度ごとに 1 枚に ならべる）。`pod_views.gd` は、メッシュが わくから 出る 向きだけ ねらう 点を ずらす（かべの さいぼうの 下が 切れて いた。ミクロごう・むしばきんの 絵は 前と 同じ）。
+  - **確かめた こと**：新しい テスト `_check_static_friends`（ゆかとの 高さ・上下に ゆれない・顔の 向き・おうえんの 前と あとの 口・はずみ）、`_check_friend_solid`（船が つきぬけず すべって 通り、ハートは へらない）、`_check_orbit_spacing`（同じ さいぼうの ピロリきんは 10 秒後に 6.4 m 以上 はなれる）、`_check_card_pictures`（20 体 × 3 つの 大きさ × ゆれの 角度で わくから 出ない）、`_check_zukan` の もどる キー。どれも、わざと こわした 写しで 失敗する ことを たしかめた。GLB は 2 回 作って 同じ md5。テスト 全部（`tools/run_tests.sh`）と ブラウザ版の 書き出しが 通る。持ち主に 見せる 前と あとの 見くらべも 作った。
+  - **本線に 出す 前の 点検**（作った 担当とは 別の 5 つの 目）：
+    - 子どもが 詰まらないか：かべの さいぼう 3 つへ 8 方向から ↑ を 押しつづけても 0.12 秒より 長く 止まらず、もどしは 出ず、ハートは へらず、おうえんは 毎回 入る（キー・タッチ・ダッシュ）。さいぼうと かべ・いけ・だんの あいだは いちばん せまい 所で 2.44 m（船は 1.1 m）。ふきとばされて ぶつかっても めりこまない。血管・はい・小腸の なかまの 動きは 前と 1 点も ちがわない（20 秒の 記録の md5 が 同じ）。毎フレームの 手間は さいぼう 1 つ 約 2 マイクロ秒。
+    - 絵・光・テスト：20 体の カードの 絵は 3 つの 大きさ × 4 つの 角度で 切れず、白とびも ない。い（胃）の 光の キーは どれも 効いて いる（球で 測ると 光の がわ 1.00〜1.02 倍。たいようを 0.75 に もどすと 1.48〜1.66 倍）。新しい テストは 3 回 走らせて 同じ 数。足もとの かげと いきの テストを 足した。
+    - ブラウザ版：2 話を カルテの 一覧から い（胃）まで 遊んだ。ピロリきん・かべの さいぼう・おうえんの あとの 口・はなれて まわる 2 ひき・開く 前の 輪を 見た。**ずかんで ピロリきんの カードの 絵が 左右で 切れて いた**（下）。
+    - 見くらべの 絵（`docs/screenshots/W2_pylori_*.jpg`・`W2_wallcell_*.jpg`）を いまの モデルで 撮りなおした。
+  - **点検で 見つけて 直した こと**：カードの 中では 絵の 入れものが たてに のびて いた（260×300 → 260×404）。絵も いっしょに のびて、たての 画角が 同じ なので 中身が 1.35 倍に 大きく なり、ピロリきんの しょく手と 顔が わくで 切れた（テストは 入れものを のばさずに はかって いたので 通って いた）。絵は いつも はかった 大きさの まま まん中に 置く ように して、本物の カードの 中で はかる テストを 足した（のばす 写しでは 失敗する）。そのままだと 絵が 前より 小さく 見えるので、文の 列の 幅（548）は 変えずに カードを よこ 880 → 940 に 広げ、絵の わくを 260×300 → 320×400 に した（`card.gd` の `PIC_SIZE`）。直した あと ブラウザ版の ずかんで、ピロリきんの カードを 8 秒 つづけて 撮って 切れない こと、カードを 7 回 開いても コンソールに 警告が 出ない ことを 見た（わくを 広げる 前の 版で）。同じ 所で ブラウザ版が 1 回 出した「Could not create render target」も、絵の 大きさを 作った ときから 決める ことで 出なく なる はず（1 回しか 出て いない ので、出ない ことは たしかめきれて いない）。うごかない なかまを かべの 近くに 置くと 船が はさまる（すきま 1.05 m で 6 秒ほど 止まる）ので、置き場所を はかる テスト（`FRIEND_GAP` 1.6 m）を 足した。
+  - **のこした もの**：ピロリきんの 帯は 真横から 見ると ほぼ たてに まく（絵は ななめ）。船が 3 m より 近いと 小さい かべの さいぼうが 船に かくれる。カードの ゆれの とちゅうで ひらたい 星（`nutrient_a`）と `heart_item` が 一瞬 よこから 見え、はばの 広い モデルは 前より 少し 小さい。い（胃）では 船体が まっ白で なく 明るい あたたかい 白。ほかの 場所の キャラクターの 光は 測って いない（たいようが 強い ままで 明るすぎる らしい）。ブラウザ版の 点検で 見つかった、この 回の 前から ある こと（かべぎわの カメラ、きゅうけいの あとの 向き、入口の 先の いけ、「のど」の 看板、「きろくを けす」の もどる キー、ピロリきんの カードの「らせん」の 文）は `docs/dashboard.md` 5 章に 書いた。つぎに 直す。
 - 2026-11-25 **しょくどうと い（胃）の 作りなおし・カードは ゲームを 止めない**：持ち主の 指摘 3 つ（①「食べかすって そもそも 食道に 残る ものなのか」②「よけろって 言われるけど よけなくても なにも 起きない」③「途中で 知識が ポップアップで 出て くるけど、操作の 邪魔で ただただ うざい」）と、Codex の 2 回目の 納品（`art/w3-stages` @ `abf7455`：食道と 胃の 雰囲気画・面の 画像・部品）を 受けた 作業。
   - **①**：食べものは 数秒で い（胃）へ 送られ、しょくどうには 残らない。前の モデルは どの 人の しょくどうにも 食べものの かたまりを 置いて いた（まちがい）。モデルから 消した。かたまりが 出るのは 2 話（よく かまずに のみこんだ おとうさん）だけで、場面の データ `"lumps"` に した。
   - **②**：しょくどうを「なみに のる」遊びに 変えた（`src/level/peristalsis.gd`）。きんにくの わが うしろから 順に しまり、その なみが 船を はこぶ（20 m/秒。↑ だけなら 11 m/秒）。かたまり（`src/entities/lump.gd`）に ぶつかると はねかえって なみから おち、つぎの なみが 来るまで おそい（ハートは へらない）。左上に「なみに のって N センチ」（ゲームの 道は 428 m あるが、出す 数は 本物の からだの 長さに なおす。しょくどうは やく 25 cm）。2 話は ぶつからなければ 22 秒、↑ だけで 進むと 3〜4 回 ぶつかって 31 秒。きかん（気管）は ふたが しまり、入れない（見なおしで「入ると 出られない」が 見つかり、あなを ふさいだ）。

diff --git a/docs/art_orders/W2_02_wallcell_3D化の結果.md b/docs/art_orders/W2_02_wallcell_3D化の結果.md
@@ -154,6 +154,7 @@ LOG=/tmp/t.log tools/run_tests.sh --stage=stomach      # と --episode=ep02、--
 - モデル：体 `#E27C4E` → **`#F3A161`**、ねんえき `#80C2CC` → **`#ADE0E0`**。
 - い（胃）の 中（ゲームの カメラ、顔の がわ、ミクロごうの ライトこみ）：体 `#E59254`〜`#DD8E53`（絵の 0.91〜0.94 倍。明るい 所 `#F59D5C`）、ねんえき `#B2E6E7`〜`#A8DBDE`（0.97〜1.03 倍）。10 m 先：体 `#D48850`、ねんえき `#9ECFD5`。たいようへ 向かって 見る ときは 体 0.78 倍・ねんえき 0.83 倍（かげの がわ）。
 - カード（いまの カードの 光）：体 `#D28B58`（0.86 倍）、ねんえき `#98C5D0`（0.88 倍）。テラコッタ・こい 水色では なく、絵に 近い うすい オレンジと うすい 水色。カードは まだ 回るので この 撮影では うしろ姿（向きは カードの コードの 係）。
+- （あとから）カードの こまは、顔の まわりで ゆれる いまの カードで 撮りなおした（体 `#DF9359`、ねんえき `#ACDEDE`）。カードの 光は 10 章で 前から 当てる ように 直した（`card.gd` の `add_picture_light()`）。
 - 体の 下を 向いた 面を 少し 暗く した（`bake_soft_shadow` の `ground` 0.1。ゆかに つく 所が 少し 暗く、すわって 見える）。
 
 ### 9.3 うれしい 口（`MouthHappy`）
